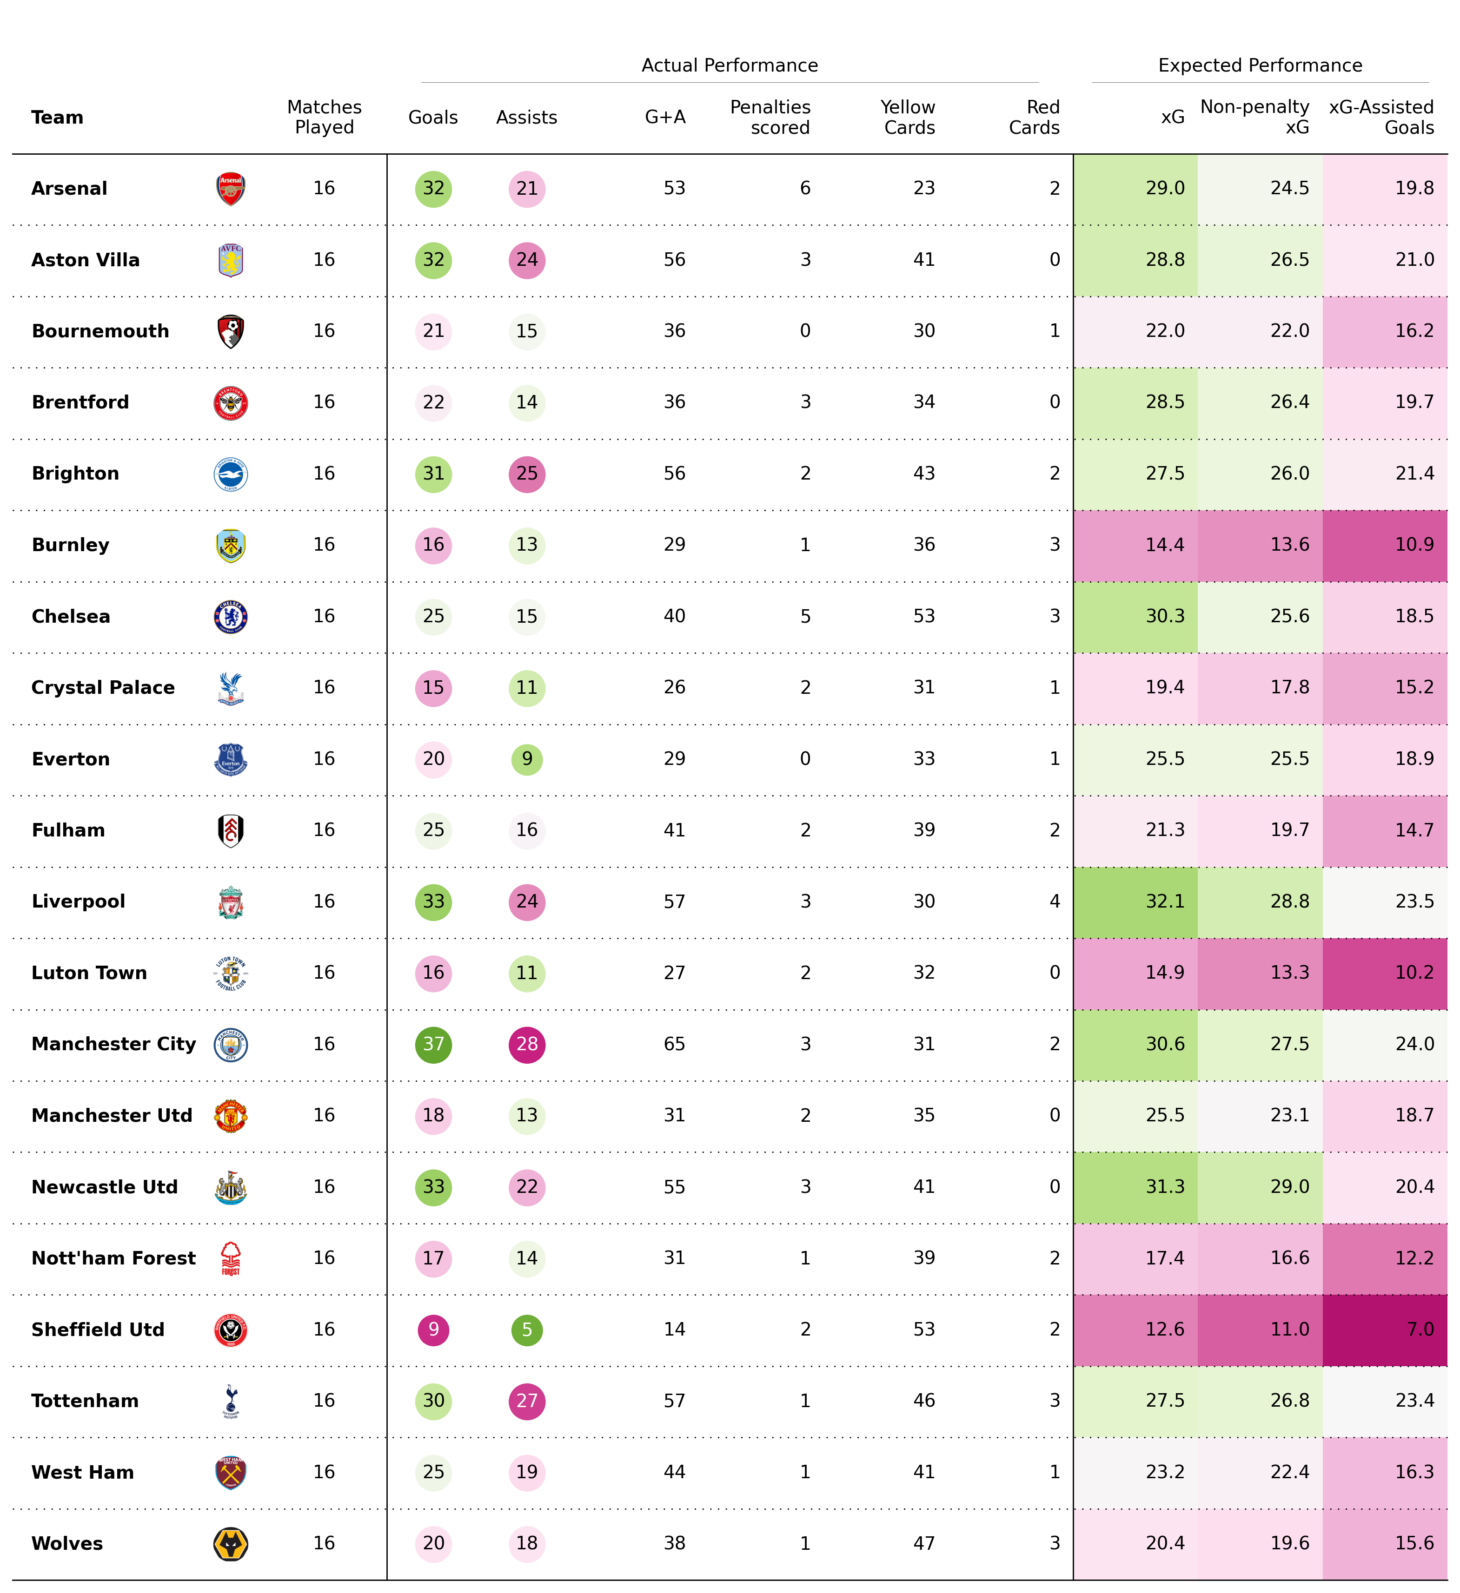
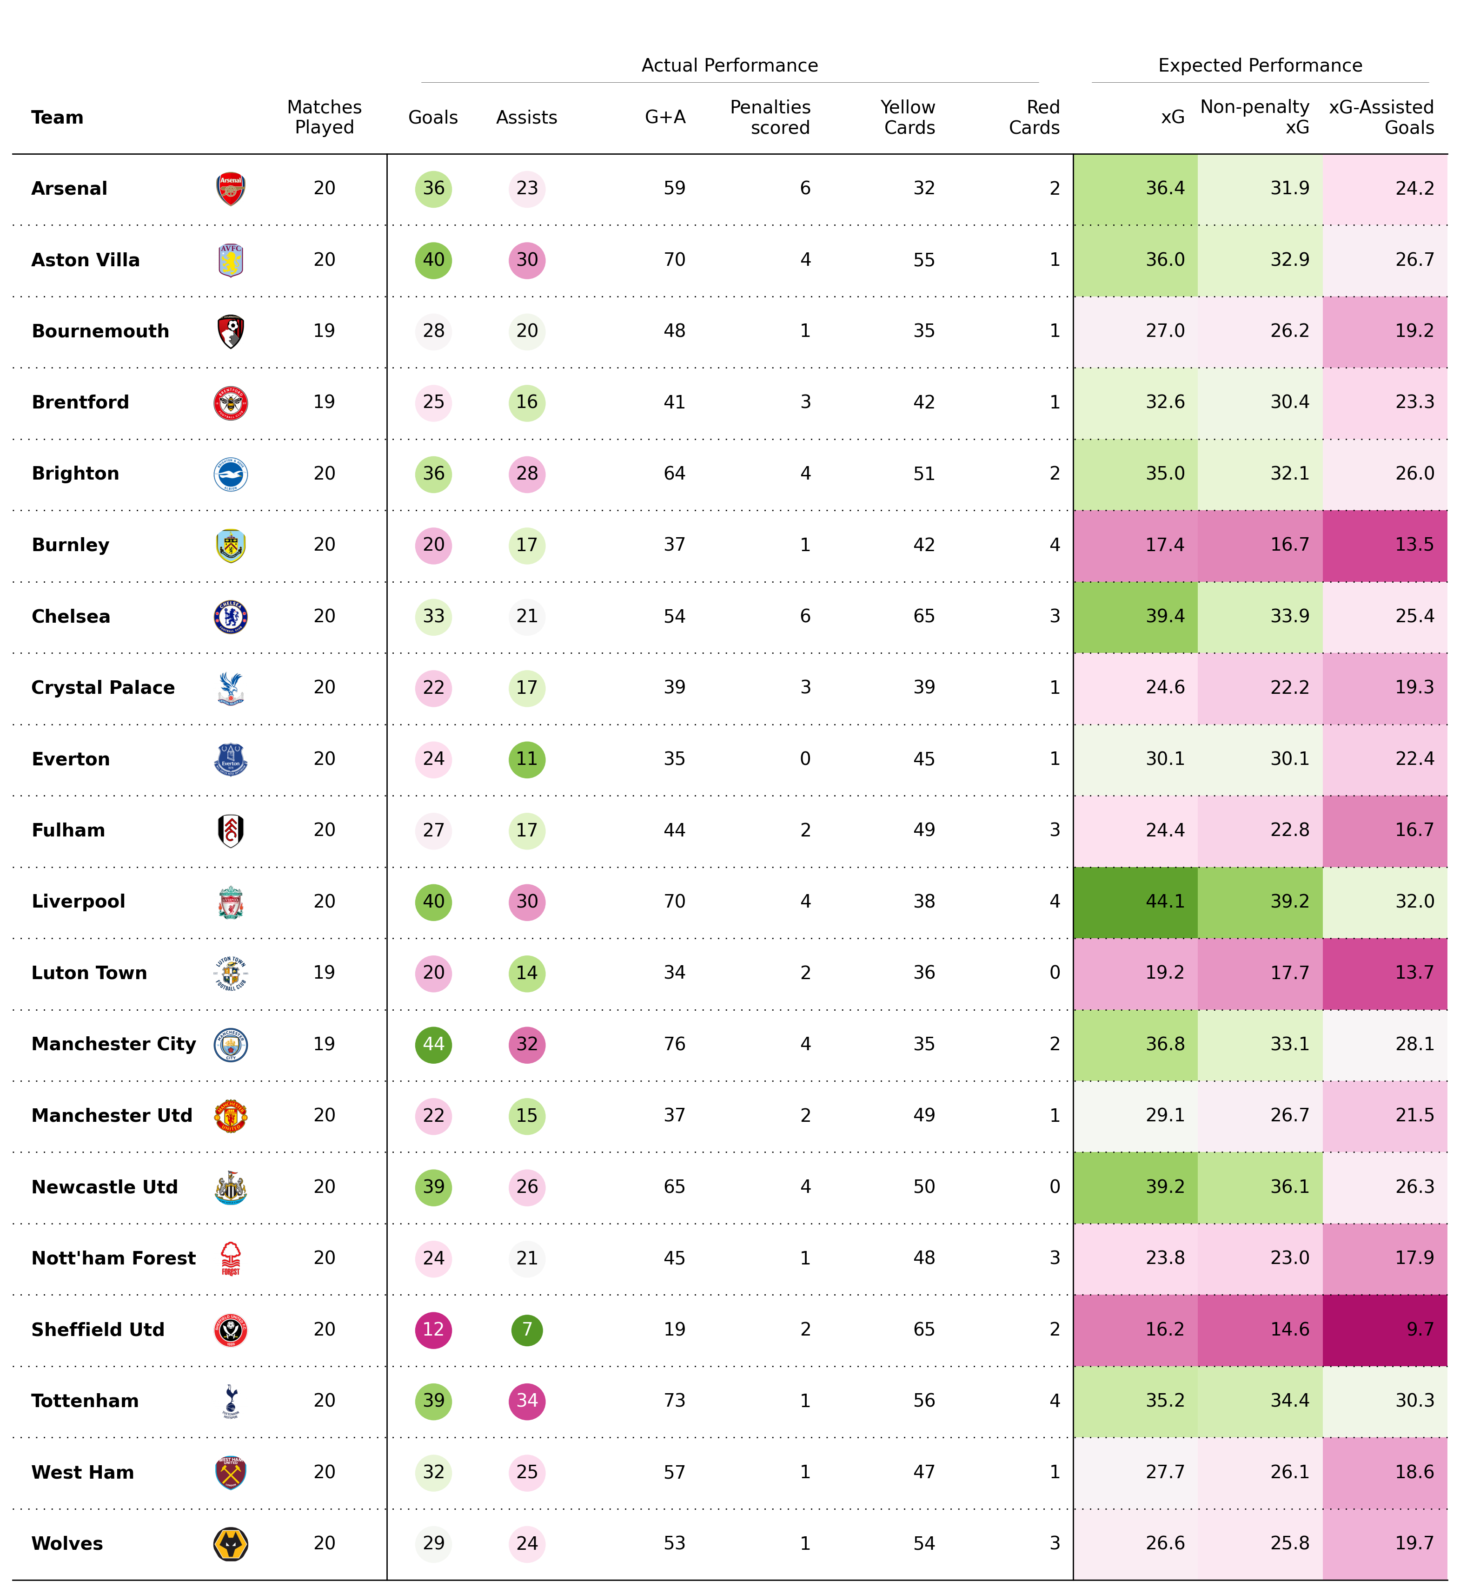
Added team-wise season stats

diff --git a/PL-fbref/fbref_data_streamlit.py b/PL-fbref/fbref_data_streamlit.py
@@ -20,58 +20,134 @@ from plottable.cmap import normed_cmap
 from plottable.formatters import decimal_to_percent
 from plottable.plots import circled_image # image
 
+eventType = 0
 
-def tableViz(df_old):    
-    cols = [
-        "_0_Squad",
-        "PlayingTime_1_MP",
-        "Performance_2_Gls",
-        "Performance_2_Ast",
-        "Performance_2_G+A",
-        "Performance_2_PK",
-        "Performance_2_CrdY",
-        "Performance_2_CrdR",
-        "Expected_3_xG",
-        "Expected_3_npxG",
-        "Expected_3_xAG",
-    ]
-    
-    df = df_old[cols].copy()
-    
-    colnames = [
-        "Team",
-        "Matches Played",
-        "Goals",
-        "Assists",
-        "G+A",
-        "Penalties scored",
-        "Yellow Cards",
-        "Red Cards",
-        "xG",
-        "Non-penalty xG",
-        "xG-Assisted Goals",
-    ]
+@st.cache_data
+def loadData(season):
+    df = webScraper.pl_all("standard",season)   
+    df['Season'] = season
+    return df
 
-    col_to_name = dict(zip(cols, colnames))
-    df = df.rename(col_to_name, axis=1)
+def footballSeasons():
+    seasonList = []
+    for i in range(2023,2017,-1):
+        dummy = 0
+        dummy = i+1
+        seasonName = str(i) + "-" +  str(dummy)
+        seasonList.append(seasonName)
+    return seasonList
+
+def createDataframe(df_old,season,eventType):
+    if eventType == 0:
+        cols = [
+            "_0_Squad",
+            "PlayingTime_1_MP",
+            "Performance_2_Gls",
+            "Performance_2_Ast",
+            "Performance_2_G+A",
+            "Performance_2_PK",
+            "Performance_2_CrdY",
+            "Performance_2_CrdR",
+            "Expected_3_xG",
+            "Expected_3_npxG",
+            "Expected_3_xAG",
+        ]
+        
+        df = df_old[cols].copy()
+        
+        colnames = [
+            "Team",
+            "Matches Played",
+            "Goals",
+            "Assists",
+            "G+A",
+            "Penalties scored",
+            "Yellow Cards",
+            "Red Cards",
+            "xG",
+            "Non-penalty xG",
+            "xG-Assisted Goals",
+        ]
+
+        col_to_name = dict(zip(cols, colnames))
+        df = df.rename(col_to_name, axis=1)
+        
+        #https://logos-world.net/premier-league-team-logos-top-epl-logos/   
+        #https://www.iconarchive.com/show/english-football-club-icons-by-giannis-zographos.1.html
+        
+        flag_paths = list(Path("logos").glob("*.png"))
+        country_to_flagpath = {str(p.stem): str(p) for p in flag_paths}
+        df['Team'] = df['Team'].astype('str')
+        df.insert(0, "Flag", df["Team"].apply(lambda x: country_to_flagpath.get(x)).fillna("XYZ"))
+        df = df.set_index("Team")
+        numeric_cols = list(df.columns[2:])
+        df[numeric_cols] = df[numeric_cols].apply(pd.to_numeric , errors = 'coerce')
+        
+        actual_cols = list(df.columns[2:8])
+        expected_cols = list(df.columns[8:])
+        
+        return actual_cols, expected_cols , df,country_to_flagpath
     
-    #https://logos-world.net/premier-league-team-logos-top-epl-logos/   
-    
-    flag_paths = list(Path("logos").glob("*.png"))
-    country_to_flagpath = {str(p.stem): str(p) for p in flag_paths}
-    df['Team'] = df['Team'].astype('str')
-    df.insert(0, "Flag", df["Team"].apply(lambda x: country_to_flagpath.get(x)).fillna("XYZ"))
-    df = df.set_index("Team")
-    numeric_cols = list(df.columns[2:])
-    df[numeric_cols] = df[numeric_cols].apply(pd.to_numeric , errors = 'coerce')
+    else:
+        cols = [
+            "_0_Squad",
+            "Season",
+            "PlayingTime_1_MP",
+            "Performance_2_Gls",
+            "Performance_2_Ast",
+            "Performance_2_G+A",
+            "Performance_2_PK",
+            "Performance_2_CrdY",
+            "Performance_2_CrdR",
+            "Expected_3_xG",
+            "Expected_3_npxG",
+            "Expected_3_xAG"
+        ]
+        
+        df = df_old[cols].copy()
+        
+        colnames = [
+            "Team",
+            "Season",
+            "Matches Played",
+            "Goals",
+            "Assists",
+            "G+A",
+            "Penalties scored",
+            "Yellow Cards",
+            "Red Cards",
+            "xG",
+            "Non-penalty xG",
+            "xG-Assisted Goals",
+        ]
+
+        col_to_name = dict(zip(cols, colnames))
+        df = df.rename(col_to_name, axis=1)
+        df = df.drop('Team',axis=1)
+        #https://logos-world.net/premier-league-team-logos-top-epl-logos/   
+        #https://www.iconarchive.com/show/english-football-club-icons-by-giannis-zographos.1.html
+        
+        flag_paths = list(Path("logos").glob("*.png"))
+        country_to_flagpath = {str(p.stem): str(p) for p in flag_paths}
+        #df.insert(0, "Flag", df["Team"].apply(lambda x: country_to_flagpath.get(x)).fillna("XYZ"))
+        df['Season'] = df['Season'].astype('str')
+        df = df.set_index("Season")
+        country_to_flagpath = {str(p.stem): str(p) for p in flag_paths}
+        #df = df.set_index("Team")
+        numeric_cols = list(df.columns[1:])
+        df[numeric_cols] = df[numeric_cols].apply(pd.to_numeric , errors = 'coerce')
+        
+        actual_cols = list(df.columns[1:7])
+        expected_cols = list(df.columns[7:])
+        
+        return actual_cols, expected_cols , df, country_to_flagpath
+        
+
+def tableViz(actual_cols, expected_cols,df):    
     
     cmap = LinearSegmentedColormap.from_list(
     name="bugw", colors=["#ffffff", "#f2fbd2", "#c9ecb4", "#93d3ab", "#35b0ab"], N=256,
     )
-    
-    actual_cols = list(df.columns[2:8])
-    expected_cols = list(df.columns[8:])
-    
     
     col_defs = (
     [
@@ -171,8 +247,33 @@ def tableViz(df_old):
     #fig.savefig("pl_standard.png", facecolor=ax.get_facecolor(), dpi=200)
 
 if __name__ == "__main__":
-    df = webScraper.pl_all("standard")    
-    tableViz(df)
+       
+    select_event = st.sidebar.selectbox('I want to see more',
+                                    ['Season-wise stats' ,'Team-wise stats for each season'])
+    if select_event == 'Season-wise stats':       
+        eventType = 0
+        season = st.sidebar.selectbox('Choose a season',
+                                      footballSeasons())
+        st.title(season + " season team stats")
+        df = loadData(season)
+        actual_cols,expected_cols,new_df,country_flag = createDataframe(df, season, eventType)
+        tableViz(actual_cols,expected_cols,new_df)        
+    elif select_event == 'Team-wise stats for each season':
+        eventType = 1
+        team = st.sidebar.selectbox('Teams',
+                                      ['Arsenal','Aston Villa','Brighton'])
+        st.title(team)
+        seasons = footballSeasons()
+        all_df = []
+        for season in seasons:
+            df = loadData(season)
+            all_df.append(df)        
+        all_df = pd.concat(all_df)
+        all_df = all_df[all_df._0_Squad == team]
+        actual_cols,expected_cols,new_df,country_flag = createDataframe(all_df, season, eventType)
+        tableViz(actual_cols,expected_cols,new_df)        
+           
+    
     
 
 

diff --git a/PL-fbref/webScraper.py b/PL-fbref/webScraper.py
@@ -60,16 +60,6 @@ def getTable(squadStat,mainSoup,idDict):
     df = pd.DataFrame(data,columns=columnList)
     return df
 
-teamIdDict = {"standard" : "stats_squads_standard_for" , "keeper" : "stats_squads_keeper_for",
-          "shooting" : "stats_squads_shooting_for" , "passing" : "stats_squads_passing_for" ,
-          "possession" : "stats_squads_possession_for" , "gca" : "stats_squads_gca_for",
-          "defense" : "stats_squads_defense_for"}
-playerIdDict = {"standard" : "stats_standard_10728" , "keeper" : "stats_keeper_10728",
-          "shooting" : "stats_shooting_10728" , "passing" : "stats_passing_10728" ,
-          "possession" : "stats_possession_10728" , "gca" : "stats_gca_10728",
-          "defense" : "stats_defense_10728"}
-teamSoup = getSoup('https://fbref.com/en/comps/9/Premier-League-Stats')
-playerSoup = getSoup('https://fbref.com/en/comps/9/Premier-League-Stats#all_stats_shooting')
 
 ################################################################################
 
@@ -84,7 +74,21 @@ playerSoup = getSoup('https://fbref.com/en/comps/9/Premier-League-Stats#all_stat
 
 #################################################################################
 
-def pl_all(stat):
+def pl_all(stat,season):
+    teamIdDict = {"standard" : "stats_squads_standard_for" , "keeper" : "stats_squads_keeper_for",
+              "shooting" : "stats_squads_shooting_for" , "passing" : "stats_squads_passing_for" ,
+              "possession" : "stats_squads_possession_for" , "gca" : "stats_squads_gca_for",
+              "defense" : "stats_squads_defense_for"}
+    playerIdDict = {"standard" : "stats_standard_10728" , "keeper" : "stats_keeper_10728",
+              "shooting" : "stats_shooting_10728" , "passing" : "stats_passing_10728" ,
+              "possession" : "stats_possession_10728" , "gca" : "stats_gca_10728",
+              "defense" : "stats_defense_10728"}
+    if season == '2023-2024':
+         teamSoup = getSoup('https://fbref.com/en/comps/9/Premier-League-Stats')
+    else:
+         teamSoup = getSoup('https://fbref.com/en/comps/9/'+ season + '/' + season + '-Premier-League-Stats')
+    playerSoup = getSoup('https://fbref.com/en/comps/9/Premier-League-Stats#all_stats_shooting')
+
     return getTable(stat, teamSoup, teamIdDict)
 
 # teamList=[]
